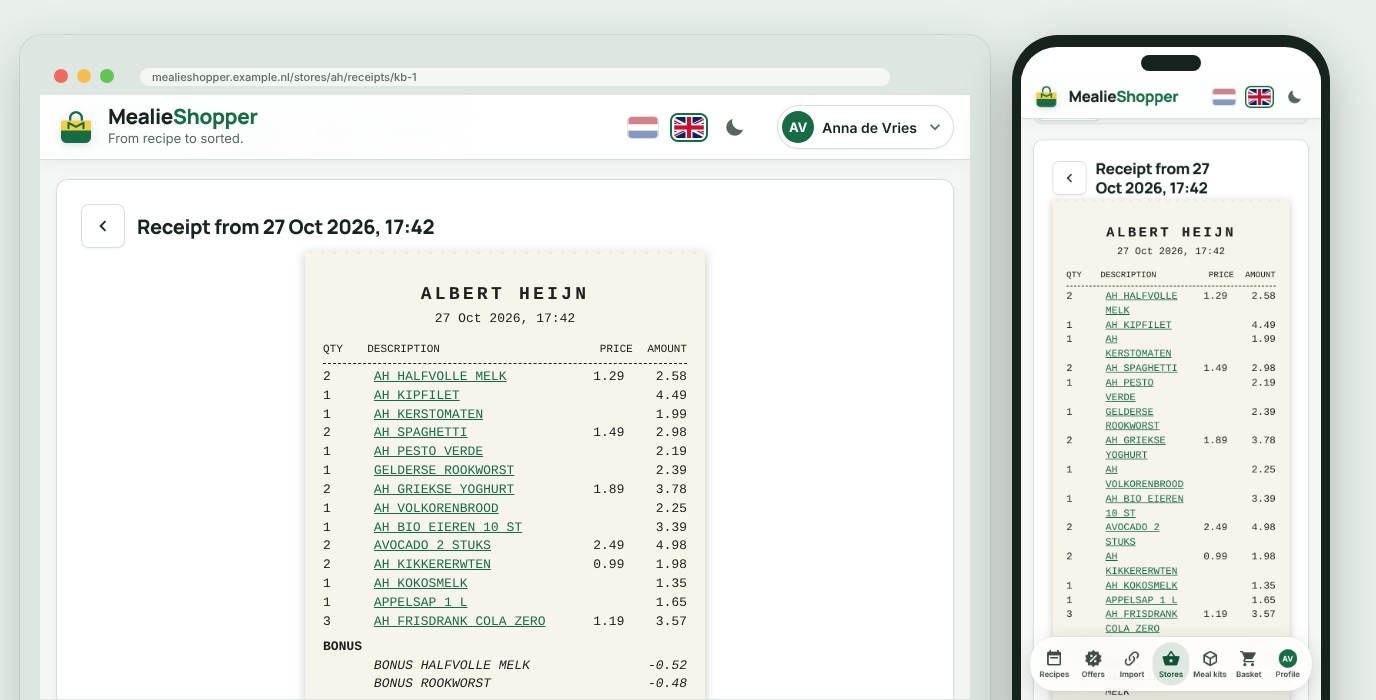
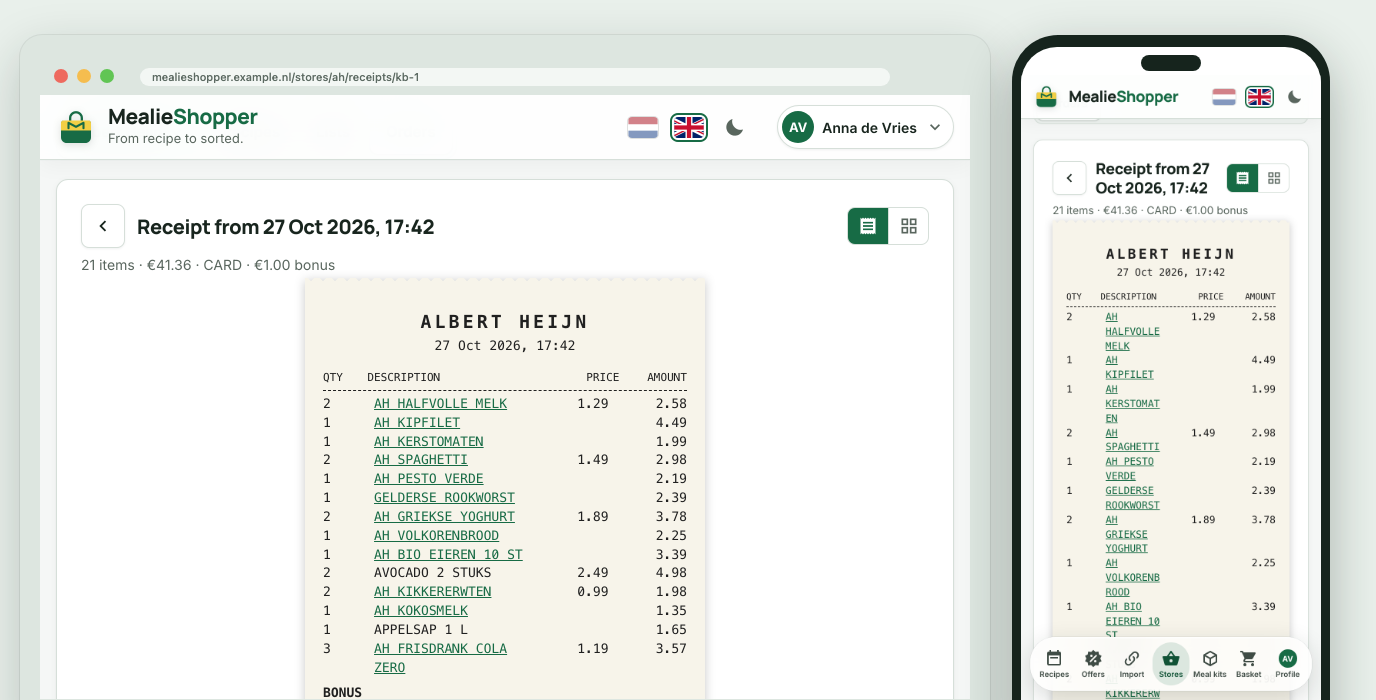
Versie 3.7.0: kassabon als bonnetje en als producten, bonfoto's sneller, de fotostrook rechts
Handleiding in beide talen, de screenshots receipt en receipt-products, en de Home Assistant-add-ons op 3.7.0.

diff --git a/docs/handleiding.md b/docs/handleiding.md
@@ -151,17 +151,17 @@ Je favoriete lijstjes als kaarten. Synchroniseer ze naar MealieShopper, zoek op 
 
 ### Winkels: AH-bestellingen en kassabonnen
 
-Je bestellingen en kassabonnen staan samen in één tabel, de nieuwste bovenaan. Erboven kies je wat je ziet: vinkjes voor bestellingen en kassabonnen, een bedrag van en tot, en het zoekveld. Je **kassabonnen** uit de winkel staan geopend zoals op papier: aantal, omschrijving, prijs en bedrag, de bonusregels, het totaal en hoe je betaalde. Een omschrijving linkt naar de prijsgeschiedenis van het webwinkelproduct waaraan het artikelnummer op de bon gekoppeld is; bij het openen zoekt MealieShopper de regels op die nog niet gekoppeld zijn (een paar per keer, zuinig voor AH). Alles staat in een lokale kopie; het zoekveld doorzoekt de producten in al je bestellingen en bonnen (zoek bijvoorbeeld op "frisdrank") en laat alleen de aankopen met dat product zien, met de gevonden regels in de kolom Producten; open je zo'n bon, dan zijn de passende regels geel gemarkeerd. Je **aankomende bestellingen** (nog open, met bezorgmoment) staan bovenaan, je **afgelopen bestellingen** (geleverd, voor altijd bewaard) ertussen op hun datum; open een bestelling voor de producten. Je AH-mandje staat onder het tabblad Mandje.
+Je bestellingen en kassabonnen staan samen in één tabel, de nieuwste bovenaan. Erboven kies je wat je ziet: vinkjes voor bestellingen en kassabonnen, een bedrag van en tot, en het zoekveld. Je **kassabonnen** uit de winkel staan geopend als een **bonnetje** zoals op papier: een smalle strook met aantal, omschrijving, prijs en bedrag, de bonusregels, het totaal en hoe je betaalde. Met de twee knopjes rechts van de titel wissel je naar **Producten**: dezelfde regels als productkaarten, met de naam en de foto van het webwinkelproduct waaraan de regel gekoppeld is (een regel die nog niet gekoppeld is houdt de afgekorte naam van de bon) en de bonusregels eronder. Onder de titel staan het aantal artikelen, het totaal, de betaalwijze en het bonusbedrag. De keuze blijft bewaard in je browser. Een omschrijving of een kaart linkt naar de prijsgeschiedenis van het webwinkelproduct waaraan het artikelnummer op de bon gekoppeld is; bij het openen zoekt MealieShopper de regels op die nog niet gekoppeld zijn (een paar per keer, zuinig voor AH) en haalt hij de foto's op van de gekoppelde regels die er nog geen hebben. Alles staat in een lokale kopie; het zoekveld doorzoekt de producten in al je bestellingen en bonnen (zoek bijvoorbeeld op "frisdrank") en laat alleen de aankopen met dat product zien, met de gevonden regels in de kolom Producten; open je zo'n bon, dan zijn de passende regels geel gemarkeerd. Je **aankomende bestellingen** (nog open, met bezorgmoment) staan bovenaan, je **afgelopen bestellingen** (geleverd, voor altijd bewaard) ertussen op hun datum; open een bestelling voor de producten. Je AH-mandje staat onder het tabblad Mandje.
 
-**Tabel, kaarten of overzicht.** Rechts boven de lijst wissel je tussen drie weergaven van dezelfde gefilterde lijst: de **Tabel**, **Kaarten** met een collage van productfoto's (vier, of zes bij grote kaarten) en het **Overzicht** met een strook foto's en de details per aankoop op een rij. Een kassabon toont de foto's van de webwinkelproducten waaraan zijn regels gekoppeld zijn. Een ingelezen bestelling toont de foto's van de producten waar haar regels bij horen; een ingelezen bestelling of een bon zonder gekoppelde producten krijgt het pictogram van zijn soort en de eerste productnamen. Elke soort heeft een kleur: groen voor een bestelling, geel voor een kassabon, grijs voor een ingelezen bestelling, als bolletje in de tabel en bij de vinkjes en als streep op de kaarten en in het overzicht. Een ingelezen bestelling heet verder gewoon *Bestelling*, met een archiefdoos erachter (wijs je die aan, dan staat er *Geïmporteerd uit je bevestigingsmails*). Met **Sorteren** kies je datum, bedrag of aantal producten, oplopend of aflopend (een klik op een kolomkop in de tabel doet hetzelfde). Met **Opties** kies je de kaartgrootte en wat een kaart laat zien: status en bezorgmoment (bij een bon de betaalwijze), het bespaarde bonusbedrag en de productnamen. Bij zoeken tonen de kaarten en het overzicht de gevonden regels. De weergave, de sortering en de opties blijven bewaard in je browser, ook als je een bestelling opent en teruggaat. Wisselen en sorteren gaan zonder verzoek aan de server.
+**Tabel, kaarten of overzicht.** Rechts boven de lijst wissel je tussen drie weergaven van dezelfde gefilterde lijst: de **Tabel**, **Kaarten** met een collage van productfoto's (vier, of zes bij grote kaarten) en het **Overzicht** met per aankoop de details op een rij en rechts een strook foto's (rechts, op een vaste breedte, zodat de tekst in elke rij op dezelfde plek begint). Een kassabon toont de foto's van de webwinkelproducten waaraan zijn regels gekoppeld zijn. Een ingelezen bestelling toont de foto's van de producten waar haar regels bij horen; een ingelezen bestelling of een bon zonder gekoppelde producten krijgt het pictogram van zijn soort en de eerste productnamen. Elke soort heeft een kleur: groen voor een bestelling, geel voor een kassabon, grijs voor een ingelezen bestelling, als bolletje in de tabel en bij de vinkjes en als streep op de kaarten en in het overzicht. Een ingelezen bestelling heet verder gewoon *Bestelling*, met een archiefdoos erachter (wijs je die aan, dan staat er *Geïmporteerd uit je bevestigingsmails*). Met **Sorteren** kies je datum, bedrag of aantal producten, oplopend of aflopend (een klik op een kolomkop in de tabel doet hetzelfde). Met **Opties** kies je de kaartgrootte en wat een kaart laat zien: status en bezorgmoment (bij een bon de betaalwijze), het bespaarde bonusbedrag en de productnamen. Bij zoeken tonen de kaarten en het overzicht de gevonden regels. De weergave, de sortering en de opties blijven bewaard in je browser, ook als je een bestelling opent en teruggaat. Wisselen en sorteren gaan zonder verzoek aan de server.
 
 <img src="screenshots/nl/purchases-cards.png" alt="De aankopen als kaarten: per bestelling of kassabon een collage van vier productfoto's, de datum, de soort met een gekleurde streep, het aantal producten, het bedrag en het bespaarde bonusbedrag" width="900">
 
-<img src="screenshots/nl/purchases-overview.png" alt="De aankopen als overzicht: per rij een strook van zes productfoto's, de datum, het bedrag en de details, met de kleurstreep van de soort links" width="900">
+<img src="screenshots/nl/purchases-overview.png" alt="De aankopen als overzicht: per rij de datum, het bedrag en de details, rechts een strook van zes productfoto's, met de kleurstreep van de soort links" width="900">
 
 Oudere bestellingen uit je bevestigingsmails lees je hier in met **Oude aankopen importeren** (alleen de beheerder, zie *Aanbiedingen*). Ze staan tussen je afgelopen bestellingen op hun datum en zien eruit als een bestelling uit je account: *Bestelling* met een archiefdoos erachter, de status en het bezorgmoment uit de mail (*Afgeleverd · 18:00-20:00*), en per product de foto, het merk en de inhoud van het product waar de regel bij hoort (op naam gekoppeld, zoals in de Prijsgeschiedenis). Een ingelezen bestelling staat altijd als *Afgeleverd*, ook als je haar inlas vóór versie 3.5.0 of de mail geen status noemde: ze telt als gekocht, en een geannuleerde bestelling wordt niet ingelezen. Noemde de mail geen tijd, dan staat die van de bestelling uit je account er. Open ze voor de producten, en het zoekveld vindt ze ook. Staat dezelfde bestelling zonder producten in je account (dat gebeurt bij oude Jumbo-bestellingen), dan staat alleen de ingelezen versie in de lijst, met de producten uit je mail. Haalt MealieShopper de producten later toch op, dan staat de bestelling uit je account er weer en valt de ingelezen versie weg. Met de prullenbak op de kaart verwijdert de beheerder een ingelezen bestelling in zijn geheel; ze telt dan ook niet meer mee in de Prijsgeschiedenis. Dat werkt net zo bij Jumbo, Picnic en Crisp. Bij Picnic en Crisp heeft een ingelezen bestelling dezelfde kaart als een bezorgde bestelling, en zet **Alles in mandje** de gekoppelde producten in je mandje (wat bij geen product hoort, noemt de melding).
 
-**Foto's van de winkels.** De productfoto's in een bestelling, het mandje, de aanbiedingen, de prijsgeschiedenis en de zoekresultaten komen niet rechtstreeks van de winkel. MealieShopper haalt elke foto één keer op, zoals een browser dat zou doen, en bewaart het origineel in de map `images` van de data-map. Daarna komt hij van je eigen server (`GET /api/images/<token>`). Dat scheelt verzoeken aan de winkel en een foto blijft staan als de winkel zijn adres verandert. Een kassabonregel die aan een webwinkelproduct gekoppeld is, toont de foto van dat product. De nachtelijke taak van de aanbiedingen haalt in een rustig tempo op wat nog ontbreekt (hooguit 300 per nacht, de nieuwste eerst), en na elke synchronisatie van bestellingen of kassabonnen volgt een kleine ronde. Geeft een winkel een 403 of 429, dan wacht de cache twaalf uur met die winkel. Een foto die niet lukt, probeert hij na een dag opnieuw en na tien keer niet meer. Onder **Instellingen, Systeem** staat hoeveel foto's er zijn en hoeveel ruimte ze innemen. De cache gaat niet mee in de back-up (hij wordt vanzelf opnieuw opgebouwd) en verdwijnt bij het terugzetten van de fabrieksinstellingen. Met `MEALIESHOPPER_IMAGE_PREFETCH=false` zet je de rondes in de achtergrond uit. Een foto die je opent, wordt dan nog steeds opgehaald en bewaard.
+**Foto's van de winkels.** De productfoto's in een bestelling, het mandje, de aanbiedingen, de prijsgeschiedenis en de zoekresultaten komen niet rechtstreeks van de winkel. MealieShopper haalt elke foto één keer op, zoals een browser dat zou doen, en bewaart het origineel in de map `images` van de data-map. Daarna komt hij van je eigen server (`GET /api/images/<token>`). Dat scheelt verzoeken aan de winkel en een foto blijft staan als de winkel zijn adres verandert. Een kassabonregel die aan een webwinkelproduct gekoppeld is, toont de foto van dat product; ontbreken er nog foto's bij gekoppelde regels, dan vraagt MealieShopper ze op bij het openen van de bon, in een kleine ronde op de achtergrond als je de lijst met aankopen opent (hooguit honderd) en 's nachts (hooguit vijfhonderd). De nachtelijke taak van de aanbiedingen haalt in een rustig tempo op wat nog ontbreekt (hooguit 300 per nacht, de nieuwste eerst), en na elke synchronisatie van bestellingen of kassabonnen volgt een kleine ronde. Geeft een winkel een 403 of 429, dan wacht de cache twaalf uur met die winkel. Een foto die niet lukt, probeert hij na een dag opnieuw en na tien keer niet meer. Onder **Instellingen, Systeem** staat hoeveel foto's er zijn en hoeveel ruimte ze innemen. De cache gaat niet mee in de back-up (hij wordt vanzelf opnieuw opgebouwd) en verdwijnt bij het terugzetten van de fabrieksinstellingen. Met `MEALIESHOPPER_IMAGE_PREFETCH=false` zet je de rondes in de achtergrond uit. Een foto die je opent, wordt dan nog steeds opgehaald en bewaard.
 
 <img src="screenshots/nl/history.png" alt="Aankomende en afgelopen bestellingen, met het synchroniseer-icoon en een zoekveld" width="900">
 
@@ -169,7 +169,9 @@ Oudere bestellingen uit je bevestigingsmails lees je hier in met **Oude aankopen
 
 <img src="screenshots/nl/receipts.png" alt="De lijst met kassabonnen en een zoekveld in je aankopen" width="900">
 
-<img src="screenshots/nl/receipt.png" alt="Een kassabon zoals op papier" width="900">
+<img src="screenshots/nl/receipt.png" alt="Een kassabon als bonnetje zoals op papier, met de schakelaar naar de productweergave in de kop" width="900">
+
+<img src="screenshots/nl/receipt-products.png" alt="Dezelfde kassabon als producten: kaarten met de naam en de foto van het webwinkelproduct, en de bonusregels eronder" width="900">
 
 <img src="screenshots/nl/receipt-search.png" alt="Zoeken op product: de kassabonnen waarop het staat, met de passende regels" width="900">
 

diff --git a/docs/handleiding.en.md b/docs/handleiding.en.md
@@ -151,17 +151,17 @@ Your favourite lists as cards. Sync them to MealieShopper, search by name or by 
 
 ### Stores: AH orders and receipts
 
-Your orders and receipts share one table, newest first. Above it you choose what you see: checkboxes for orders and receipts, an amount from and to, and the search field. Your **receipts** from the shop open the way they look on paper: quantity, description, price and amount, the bonus lines, the total and how you paid. A description links to the price history of the web shop product the article number on the receipt is linked to; when you open a receipt, MealieShopper looks up the lines that are not linked yet (a few at a time, gentle on AH). Everything is kept in a local copy; the search field searches the products in all your orders and receipts (search for "soda", for example) and shows only the purchases with that product, with the matching lines in the Products column; open such a receipt and the matching lines are highlighted. Your **upcoming orders** (still open, with their delivery time) are at the top, your **past orders** (delivered, kept for good) among them on their date; open an order for its products. Your AH basket is under the Basket tab.
+Your orders and receipts share one table, newest first. Above it you choose what you see: checkboxes for orders and receipts, an amount from and to, and the search field. Your **receipts** from the shop open as a **receipt** the way they look on paper: a narrow strip with quantity, description, price and amount, the bonus lines, the total and how you paid. With the two small buttons to the right of the title you switch to **Products**: the same lines as product cards, with the name and the photo of the webshop product the line is linked to (a line that is not linked yet keeps the abbreviated name from the receipt) and the bonus lines below. Under the title are the number of items, the total, the payment method and the bonus amount. The choice is remembered in your browser. A description or a card links to the price history of the web shop product the article number on the receipt is linked to; when you open a receipt, MealieShopper looks up the lines that are not linked yet (a few at a time, gentle on AH) and fetches the photos of the linked lines that do not have one yet. Everything is kept in a local copy; the search field searches the products in all your orders and receipts (search for "soda", for example) and shows only the purchases with that product, with the matching lines in the Products column; open such a receipt and the matching lines are highlighted. Your **upcoming orders** (still open, with their delivery time) are at the top, your **past orders** (delivered, kept for good) among them on their date; open an order for its products. Your AH basket is under the Basket tab.
 
-**Table, cards or overview.** Above the list on the right you switch between three views of the same filtered list: the **Table**, **Cards** with a collage of product photos (four, or six on large cards) and the **Overview** with a strip of photos and the details of each purchase on one row. A receipt shows the photos of the webshop products its lines are linked to. An imported order shows the photos of the products its lines belong to; an imported order or a receipt without linked products gets the icon of its kind and the first product names. Each kind has a colour: green for an order, yellow for a receipt, grey for an imported order, as a dot in the table and at the checkboxes and as a stripe on the cards and in the overview. Otherwise an imported order is simply called *Order*, with an archive box after it (point at it and it says *Imported from your confirmation emails*). With **Sort** you choose date, amount or number of products, ascending or descending (clicking a column header in the table does the same). With **Options** you choose the card size and what a card shows: status and delivery slot (the payment method for a receipt), the bonus amount saved and the product names. When searching, the cards and the overview show the matching lines. The view, the sort order and the options are kept in your browser, also when you open an order and go back. Switching and sorting need no request to the server.
+**Table, cards or overview.** Above the list on the right you switch between three views of the same filtered list: the **Table**, **Cards** with a collage of product photos (four, or six on large cards) and the **Overview** with the details of each purchase on one row and a strip of photos on the right (on the right, at a fixed width, so the text of every row starts at the same place). A receipt shows the photos of the webshop products its lines are linked to. An imported order shows the photos of the products its lines belong to; an imported order or a receipt without linked products gets the icon of its kind and the first product names. Each kind has a colour: green for an order, yellow for a receipt, grey for an imported order, as a dot in the table and at the checkboxes and as a stripe on the cards and in the overview. Otherwise an imported order is simply called *Order*, with an archive box after it (point at it and it says *Imported from your confirmation emails*). With **Sort** you choose date, amount or number of products, ascending or descending (clicking a column header in the table does the same). With **Options** you choose the card size and what a card shows: status and delivery slot (the payment method for a receipt), the bonus amount saved and the product names. When searching, the cards and the overview show the matching lines. The view, the sort order and the options are kept in your browser, also when you open an order and go back. Switching and sorting need no request to the server.
 
 <img src="screenshots/en/purchases-cards.png" alt="The purchases as cards: per order or receipt a collage of four product photos, the date, the kind with a coloured stripe, the number of products, the amount and the bonus amount saved" width="900">
 
-<img src="screenshots/en/purchases-overview.png" alt="The purchases as an overview: per row a strip of six product photos, the date, the amount and the details, with the colour stripe of the kind on the left" width="900">
+<img src="screenshots/en/purchases-overview.png" alt="The purchases as an overview: per row the date, the amount and the details, a strip of six product photos on the right, with the colour stripe of the kind on the left" width="900">
 
 Older orders from your confirmation emails can be read in here with **Import old purchases** (administrator only, see *Offers*). They are among your past orders on their date and look like an order from your account: *Order* with an archive box after it, the status and delivery time from the email (*Delivered · 18:00-20:00*), and per product the photo, brand and size of the product the line belongs to (matched by name, as in the Price history). An imported order is always shown as *Delivered*, also when you imported it before version 3.5.0 or the email named no status: it counts as bought, and a cancelled order is not imported. When the email named no time, the one of the order in your account is shown. Open them for the products, and the search field finds them too. When the same order is in your account without products (this happens with old Jumbo orders), only the imported version is listed, with the products from your email. If MealieShopper fetches the products later after all, the order from your account is back and the imported version drops out. With the bin on the card the administrator removes an imported order as a whole; it then no longer counts in the Price history either. It works the same at Jumbo, Picnic and Crisp. At Picnic and Crisp an imported order has the same card as a delivered order, and **Add all to basket** puts the linked products in your basket (the message names what matched no product).
 
-**Photos from the stores.** The product photos in an order, the basket, the offers, the price history and the search results do not come straight from the store. MealieShopper fetches each photo once, as a browser would, and keeps the original in the `images` folder of the data folder. From then on it comes from your own server (`GET /api/images/<token>`). That saves requests to the store, and a photo stays when the store changes its address. A receipt line linked to a webshop product shows that product's photo. The nightly offers task fetches what is still missing at a calm pace (at most 300 a night, newest first), and a small round follows every sync of orders or receipts. If a store answers 403 or 429, the cache waits twelve hours for that store. A photo that fails is tried again after a day and no more after ten times. Under **Settings, System** you see how many photos there are and how much space they take. The cache is not part of the backup (it rebuilds itself) and goes with a factory reset. `MEALIESHOPPER_IMAGE_PREFETCH=false` turns the background rounds off. A photo you open is still fetched and kept.
+**Photos from the stores.** The product photos in an order, the basket, the offers, the price history and the search results do not come straight from the store. MealieShopper fetches each photo once, as a browser would, and keeps the original in the `images` folder of the data folder. From then on it comes from your own server (`GET /api/images/<token>`). That saves requests to the store, and a photo stays when the store changes its address. A receipt line linked to a webshop product shows that product's photo; when linked lines still lack photos, MealieShopper asks for them when you open the receipt, in a small background round when you open the list of purchases (at most a hundred) and at night (at most five hundred). The nightly offers task fetches what is still missing at a calm pace (at most 300 a night, newest first), and a small round follows every sync of orders or receipts. If a store answers 403 or 429, the cache waits twelve hours for that store. A photo that fails is tried again after a day and no more after ten times. Under **Settings, System** you see how many photos there are and how much space they take. The cache is not part of the backup (it rebuilds itself) and goes with a factory reset. `MEALIESHOPPER_IMAGE_PREFETCH=false` turns the background rounds off. A photo you open is still fetched and kept.
 
 <img src="screenshots/en/history.png" alt="Upcoming and past orders, with the sync icon and a search field" width="900">
 
@@ -169,7 +169,9 @@ Older orders from your confirmation emails can be read in here with **Import old
 
 <img src="screenshots/en/receipts.png" alt="The list of receipts and a search field for your purchases" width="900">
 
-<img src="screenshots/en/receipt.png" alt="A receipt as it looks on paper" width="900">
+<img src="screenshots/en/receipt.png" alt="A receipt the way it looks on paper, with the switch to the products view in the header" width="900">
+
+<img src="screenshots/en/receipt-products.png" alt="The same receipt as products: cards with the name and the photo of the webshop product, and the bonus lines below" width="900">
 
 <img src="screenshots/en/receipt-search.png" alt="Searching by product: the receipts it is on, with the matching lines" width="900">
 

diff --git a/CHANGELOG.md b/CHANGELOG.md
@@ -2,6 +2,17 @@
 
 Elke release heeft hier een eigen kopje `## vX.Y.Z` en wordt bij het mergen naar `main` automatisch een GitHub release (zie [Releases](#releases)). De tekst onder het kopje is de release-tekst op GitHub; een stabiele release krijgt de teksten van alle versies sinds de vorige stabiele release.
 
+## v3.7.0
+
+### Nieuw en opgelost in 3.7.0
+
+*English summary: a receipt opens as a narrow paper strip again (it had grown as wide as the page) and gets a second view, Products: the same lines as product cards with the webshop name and photo, the bonus lines below, and the item count, total, payment method and bonus amount under the title; the choice is remembered. Receipt photos no longer wait for the nightly round alone: opening a receipt fetches the photos of its own lines, opening the receipts list starts a small background round, and the nightly round does five hundred instead of two hundred. In the purchases overview the photo strip moved to the right at a fixed width, so every row starts its text at the same place. Reload the page once after updating.*
+
+- **Kassabon als bonnetje én als producten.** Een bon opent weer als een smalle strook papier in het midden (hij was zo breed als de pagina geworden en zag er niet meer uit als een bon). Met de twee knopjes rechts van de titel wissel je naar **Producten**: dezelfde regels als productkaarten met de naam en de foto van het webwinkelproduct waaraan de regel gekoppeld is (een regel die nog niet gekoppeld is houdt de afgekorte naam van de bon), de bonusregels eronder, en onder de titel het aantal artikelen, het totaal, de betaalwijze en het bonusbedrag. De keuze blijft bewaard in je browser. Bij zoeken lichten de gevonden regels in beide weergaven op. Op een breed scherm scrolt de bon in zijn eigen vak, zodat de pagina niet schuift.
+- **Bonfoto's komen sneller.** De foto's bij gekoppelde bonregels kwamen alleen uit de nachtelijke ronde (200 per nacht): met tweeduizend gekoppelde regels bleven de bonnen maanden zonder foto. Het openen van een bon haalt nu de foto's van zijn eigen regels op (`POST /api/ah/receipts/<id>/products` geeft `images`), het openen van de lijst met aankopen start een kleine ronde op de achtergrond (hooguit vier verzoeken aan AH, honderd producten), en de nachtelijke ronde doet er vijfhonderd.
+- **Overzicht: de foto's rechts.** In het overzicht van de aankopen staat de strook foto's rechts, op een vaste breedte, en de details links: een bon zonder foto's (een icoon) en een bestelling met zes foto's beginnen hun tekst nu op dezelfde plek. Op een telefoon staan de foto's onder de details.
+- **Handleiding** in beide talen en een nieuw screenshot (`receipt-products.png`).
+
 ## v3.6.2
 
 ### Aangepast en verwijderd in 3.6.2
